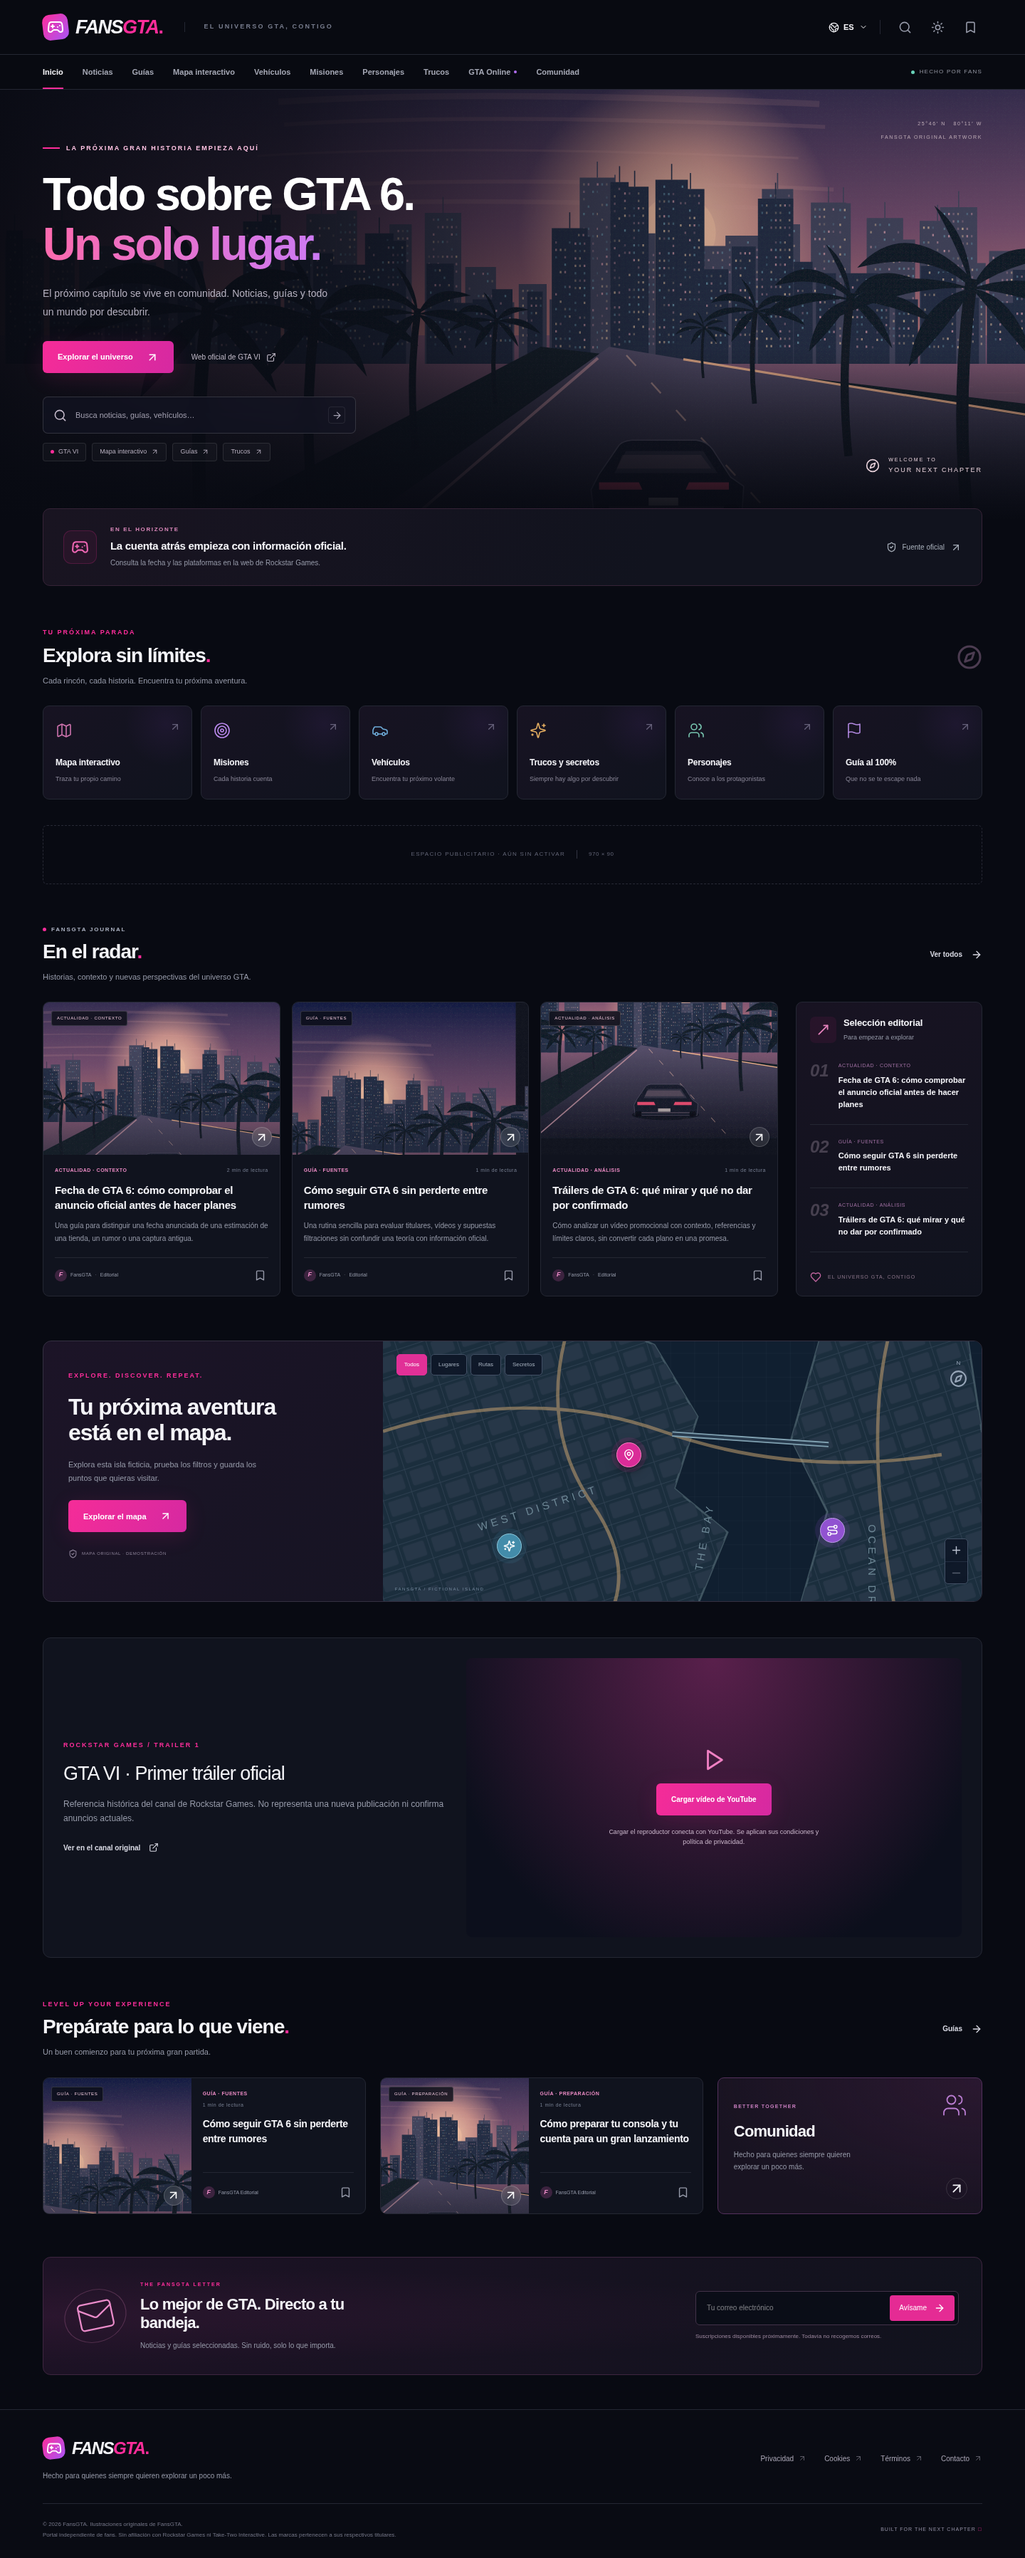
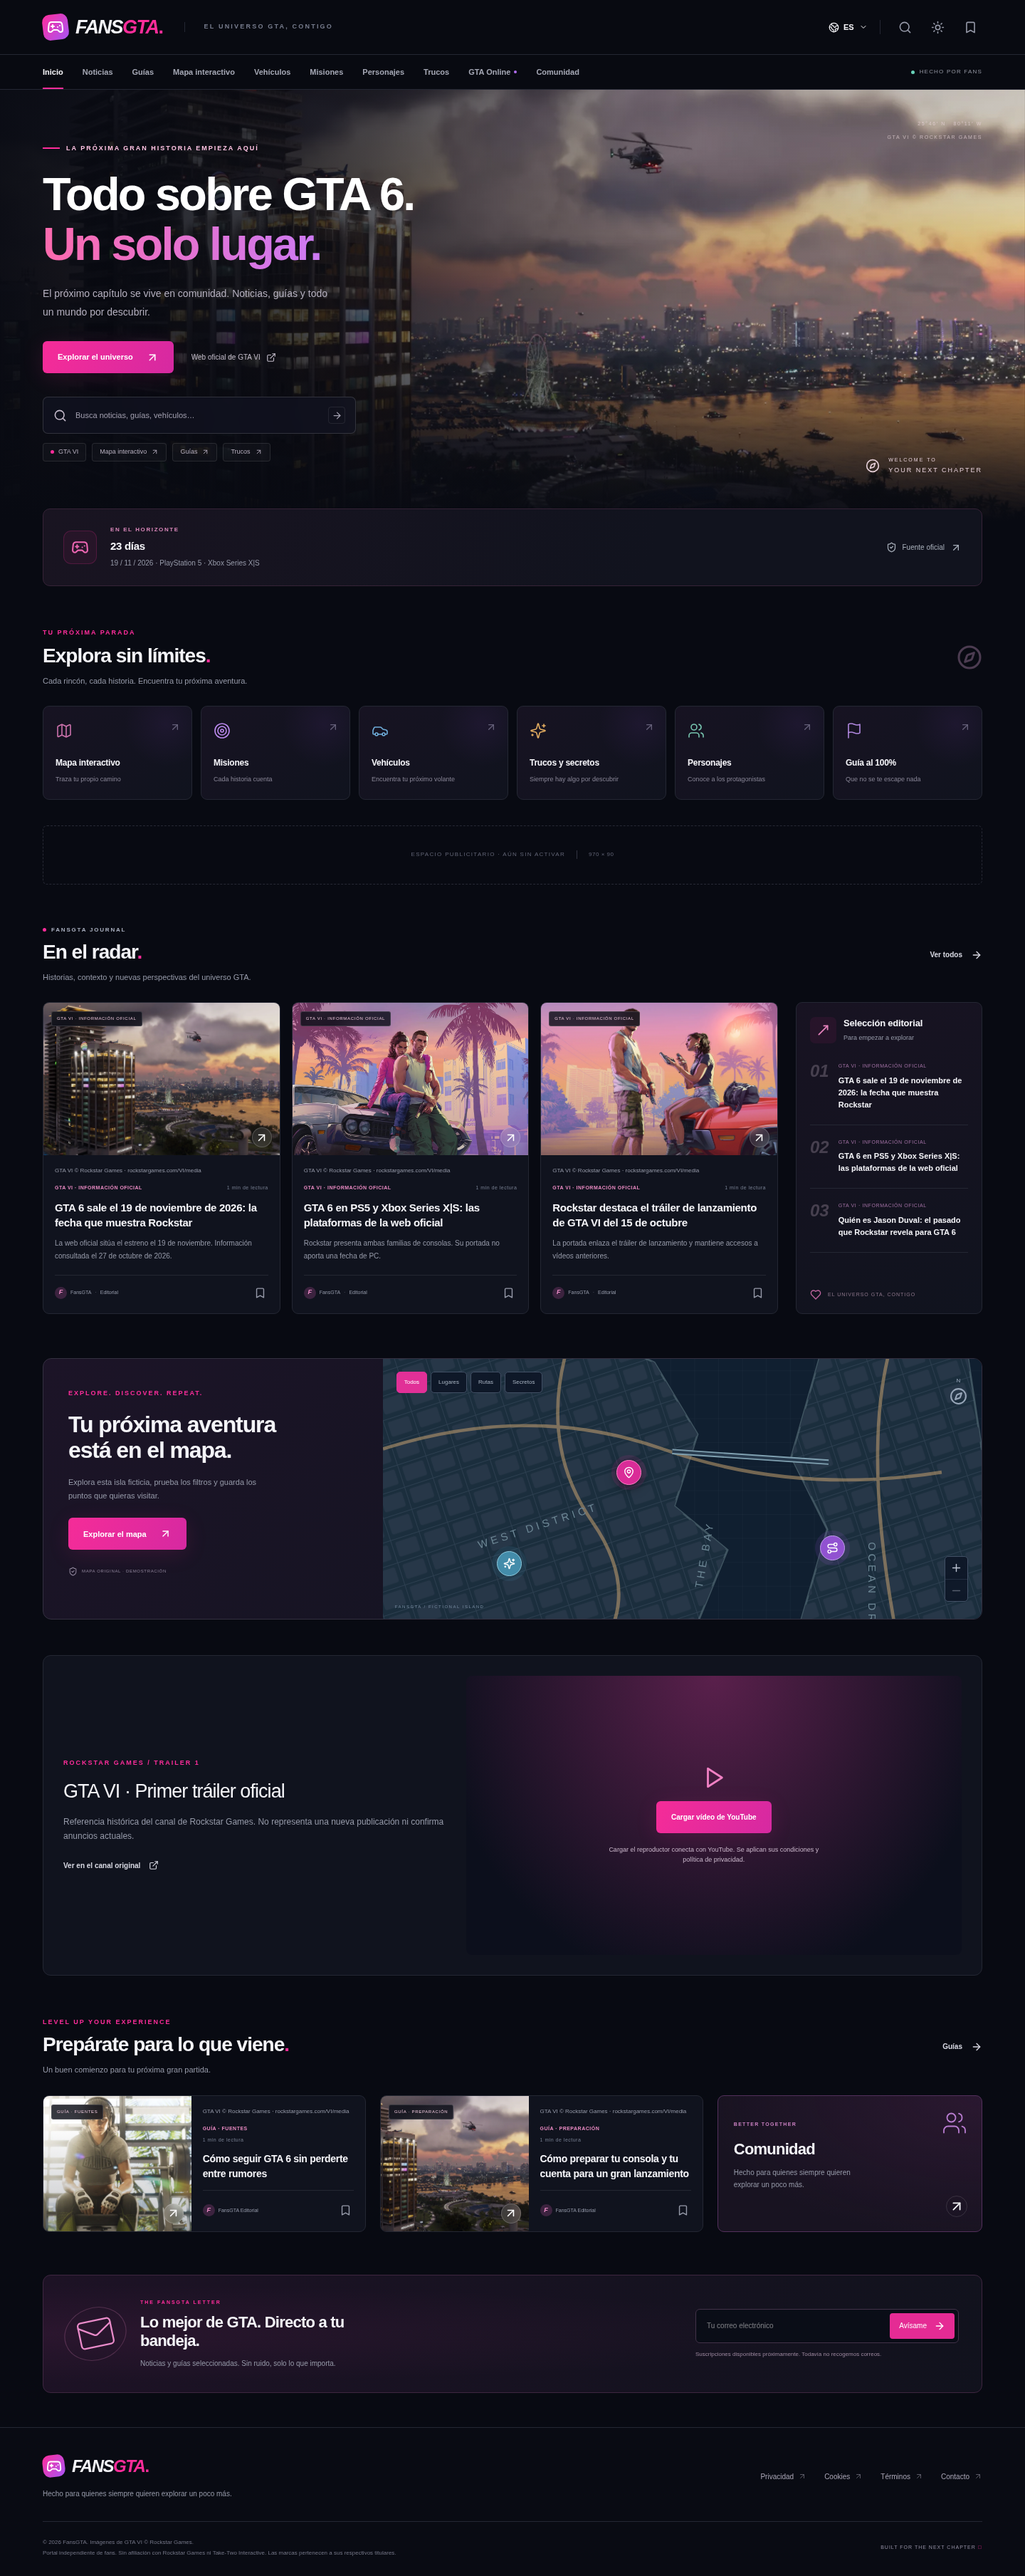
Record launch checks and update real-media previews

diff --git a/docs/verification.md b/docs/verification.md
@@ -7,3 +7,5 @@ The release build generates 91 route documents plus the root homepage copy. Stat
 Cloudflare authentication is active. A new fansgta Pages project was created independently, connected to the gta6 GitHub repository, with npm run build:release and dist output. The fansgta.com domain association is pending: Cloudflare reports “CNAME record not set”. DNS API access for its zone was denied with authentication error 10000; Pages access does not establish DNS edit access. No BarberControl configuration was modified.
 
 Daily automated publishing, AdSense, analytics and Supabase CMS remain inactive.
+
+All 16 desktop/mobile browser tests passed after the content/media replacement. Post-optimization static checks passed. Homepages at 390 and 1440 px show zero broken images, no horizontal overflow and no page errors. The six WebP versions total 689,618 bytes. Production Cloudflare deployment of bf2f1e1 was triggered explicitly because a Git push alone did not immediately start a deployment; do not assume webhook delivery is verified.
